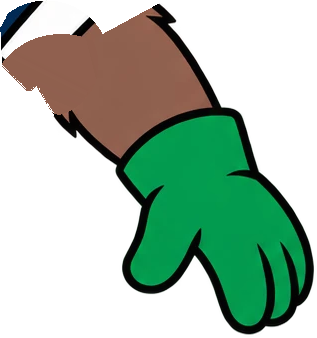
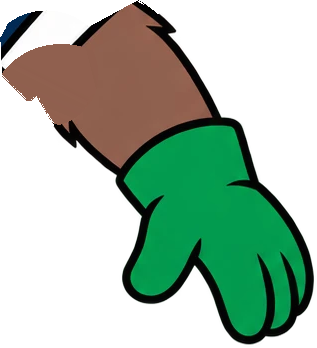
Puppet: close the seams, official hello pose for the greeting
Every edge a piece shares with one above it now has a strip of art under it,
so scaled-down soft edges never let the background through (the light lines
at the armholes and the collar). The tail owns its whole tip. The walk lifts
each leg as one piece instead of sliding the shin over the thigh, and the
greeting uses Rocky's official "hello" pose instead of turning the arm.

Claude-Session: https://claude.ai/code/session_01XnmiJCNWyPAE3i8SfpRvaf

Changed region(s): [[0.0, 0.0, 0.9937, 0.9763], [0.8233, 0.8284, 0.9937, 0.9763], [0.795, 0.7101, 0.8801, 0.8284]]

diff --git a/src/components/world/RockyPuppet.module.css b/src/components/world/RockyPuppet.module.css
@@ -2,7 +2,7 @@
    pivot (set inline from the design team's guide), so nested joints chain:
    the shoulder carries the elbow, the hip carries the knee. Pieces only turn
    and lift; whole-body motion (hops, waddle, breathing) comes from the
-   world's pose classes on the parent. Angles stay small except the wave, and
+   world's pose classes on the parent. Angles stay small, and
    every piece has art under its neighbour, so joints never open a gap. */
 .puppet {
   position: absolute;
@@ -100,8 +100,8 @@
   }
 }
 
-/* ---- Walk / run: seen from the front, each knee comes up in turn (the shin
-   lifts over the thigh) while the arms swing and the elbows follow. ---- */
+/* ---- Walk / run: seen from the front, each leg lifts in turn (the thigh
+   slides up under the vest) while the arms swing and the elbows follow. ---- */
 .walk .legL,
 .run .legL {
   animation: hipL 0.7s ease-in-out infinite;
@@ -109,14 +109,6 @@
 .walk .legR,
 .run .legR {
   animation: hipR 0.7s ease-in-out infinite;
-}
-.walk .shinL,
-.run .shinL {
-  animation: kneeL 0.7s ease-in-out infinite;
-}
-.walk .shinR,
-.run .shinR {
-  animation: kneeR 0.7s ease-in-out infinite;
 }
 .walk .armL,
 .run .armL {
@@ -144,8 +136,6 @@
 }
 .run .legL,
 .run .legR,
-.run .shinL,
-.run .shinR,
 .run .armL,
 .run .armR,
 .run .foreL,
@@ -160,7 +150,7 @@
     transform: translateY(0) rotate(0);
   }
   25% {
-    transform: translateY(-1.5%) rotate(2deg);
+    transform: translateY(-2.6%) rotate(1.5deg);
   }
 }
 @keyframes hipR {
@@ -170,27 +160,7 @@
     transform: translateY(0) rotate(0);
   }
   75% {
-    transform: translateY(-1.5%) rotate(-2deg);
-  }
-}
-@keyframes kneeL {
-  0%,
-  50%,
-  100% {
-    transform: translateY(0) rotate(0);
-  }
-  25% {
-    transform: translateY(-4.5%) rotate(-3deg);
-  }
-}
-@keyframes kneeR {
-  0%,
-  50%,
-  100% {
-    transform: translateY(0) rotate(0);
-  }
-  75% {
-    transform: translateY(-4.5%) rotate(3deg);
+    transform: translateY(-2.6%) rotate(-1.5deg);
   }
 }
 @keyframes swingL {
@@ -227,67 +197,6 @@
   }
   50% {
     transform: rotate(-2deg);
-  }
-}
-
-/* ---- Wave: the right arm comes up and the hand waves at the elbow ---- */
-.wave .armR {
-  animation: waveArm 2.4s ease-in-out both;
-}
-.wave .foreR {
-  animation: waveHand 2.4s ease-in-out both;
-}
-.wave .head {
-  animation: waveHead 2.4s ease-in-out both;
-}
-.wave .tail {
-  animation: tailWag 0.3s ease-in-out infinite alternate;
-}
-@keyframes waveArm {
-  0%,
-  100% {
-    transform: rotate(0);
-  }
-  16%,
-  84% {
-    transform: rotate(-48deg);
-  }
-}
-@keyframes waveHand {
-  0%,
-  100% {
-    transform: rotate(0);
-  }
-  16% {
-    transform: rotate(-58deg);
-  }
-  28% {
-    transform: rotate(-84deg);
-  }
-  40% {
-    transform: rotate(-58deg);
-  }
-  52% {
-    transform: rotate(-84deg);
-  }
-  64% {
-    transform: rotate(-58deg);
-  }
-  76% {
-    transform: rotate(-84deg);
-  }
-  84% {
-    transform: rotate(-58deg);
-  }
-}
-@keyframes waveHead {
-  0%,
-  100% {
-    transform: rotate(0);
-  }
-  20%,
-  80% {
-    transform: rotate(-1.6deg);
   }
 }
 
@@ -352,7 +261,7 @@
   }
 }
 
-/* ---- Hop: arms out for balance, knees tucked ---- */
+/* ---- Hop: arms out for balance, legs tucked ---- */
 .hop .armL {
   animation: armUpL 0.55s ease-in-out 2;
 }
@@ -365,8 +274,8 @@
 .hop .foreR {
   animation: elbowUpR 0.55s ease-in-out 2;
 }
-.hop .shinL,
-.hop .shinR {
+.hop .legL,
+.hop .legR {
   animation: tuck 0.55s ease-in-out 2;
 }
 .hop .tail {

diff --git a/src/components/world/RockyWorld.tsx b/src/components/world/RockyWorld.tsx
@@ -69,7 +69,7 @@ import { GuestRocky, type Guest } from "./GuestRocky";
 import { VipAura } from "./VipAura";
 import { RetryImg } from "../assetRecovery";
 
-type Pose = "idle" | "walk" | "run" | "pet" | "eat" | "hop" | "bath" | "wave";
+type Pose = "idle" | "walk" | "run" | "pet" | "eat" | "hop" | "bath";
 
 interface Particle {
   id: number;
@@ -434,16 +434,6 @@ export function RockyWorld({
   // A short official pose (a cheer, a bite, a celebration) shown over his mood pose.
   const [emote, setEmote] = useState<RockyEmote | null>(null);
   const [usePuppet] = useState(puppetEnabled);
-  // The puppet waves hello when you arrive (unless he's already busy).
-  useEffect(() => {
-    if (!usePuppet || prefersReducedMotion()) return;
-    const start = window.setTimeout(() => setPose((p) => (p === "idle" ? "wave" : p)), 900);
-    const end = window.setTimeout(() => setPose((p) => (p === "wave" ? "idle" : p)), 900 + 2400);
-    return () => {
-      window.clearTimeout(start);
-      window.clearTimeout(end);
-    };
-  }, [usePuppet]);
   const emoteTimer = useRef<number | undefined>(undefined);
   const hatRef = useRef<SVGSVGElement>(null);
   const glassesRef = useRef<SVGSVGElement>(null);
@@ -458,6 +448,12 @@ export function RockyWorld({
     emoteTimer.current = window.setTimeout(() => setEmote(null), 1800);
   }, []);
   useEffect(() => () => window.clearTimeout(emoteTimer.current), []);
+  // Rocky waves hello when you arrive, in his official "hello" pose.
+  useEffect(() => {
+    if (prefersReducedMotion()) return;
+    const t = window.setTimeout(() => playClip("Wave"), 900);
+    return () => window.clearTimeout(t);
+  }, [playClip]);
 
   // Check-in reactions show their official pose, with a little tune.
   useEffect(() => {

diff --git a/src/components/world/RockyPuppet.tsx b/src/components/world/RockyPuppet.tsx
@@ -21,7 +21,7 @@ import type { HeadAnchor, RockyRigPoints } from '../rockyWorldRig'
  * each piece continues under its neighbour, so a turn shows art, not a gap.
  * Joints chain like a body: the shoulder carries the elbow, the hip the knee.
  */
-export type PuppetAction = 'idle' | 'walk' | 'run' | 'pet' | 'eat' | 'hop' | 'bath' | 'wave'
+export type PuppetAction = 'idle' | 'walk' | 'run' | 'pet' | 'eat' | 'hop' | 'bath'
 
 const SRC: Record<string, string> = {
   tail,

diff --git a/tools/build-rocky-puppet.py b/tools/build-rocky-puppet.py
@@ -149,6 +149,25 @@ def grow_owner(owner: np.ndarray, need: np.ndarray) -> np.ndarray:
     return own
 
 
+def dilate(mask: np.ndarray, r: int) -> np.ndarray:
+    """Grow a mask by r pixels (8-neighbour steps)."""
+    out = mask.copy()
+    for _ in range(r):
+        grown = out.copy()
+        for dy in (-1, 0, 1):
+            for dx in (-1, 0, 1):
+                if dy or dx:
+                    grown |= np.roll(np.roll(out, dy, 0), dx, 1)
+        out = grown
+    return out
+
+
+# Every edge a piece shares with a piece above it gets a strip of art under
+# the neighbour (canvas px), so when the art is scaled down and the pieces
+# move a little, the soft edge shows art behind it, never the background.
+SEAM = 16
+
+
 def main() -> None:
     pose = np.array(Image.open(POSE).convert("RGBA")).astype(int)
     h, w = pose.shape[:2]
@@ -177,6 +196,23 @@ def main() -> None:
         owner_matches |= (owner == rank[n]) & match[n]
     fix = visible & (top_matches >= 0) & ~owner_matches
     owner[fix] = top_matches[fix]
+    # The tail's own fur and outline belong to the tail even where the leg's layer
+    # repeats them (its pants and cuffs, which the tail's layer only echoes, don't).
+    r, g, b = (pose[..., i] for i in range(3))
+    pants = (b > r + 25) | ((r > 200) & (g > 200) & (b > 200))
+    owner[match["tail"] & visible & ~pants] = rank["tail"]
+    # Below the hip the tail hangs free of the leg (white between them): every
+    # pixel joined to the tail there is the tail's, even where its layer stops short.
+    band = np.zeros((h, w), bool)
+    band[985:1135, :430] = True
+    band &= (pose[..., 3] > 100) & ~pants
+    tail = band & (owner == rank["tail"])
+    while True:
+        grown = dilate(tail, 1) & band
+        if grown.sum() == tail.sum():
+            break
+        tail = grown
+    owner[tail] = rank["tail"]
     owner = grow_owner(owner, visible)
 
     dots = guide_dots(LAYERS / "30_Puntos_de_Giro_GUIA.png")
@@ -219,6 +255,7 @@ def main() -> None:
             if only:  # own art only
                 spot &= masks[n] & (layers[n][..., 3] >= 250)
             hidden |= spot
+        hidden |= dilate(owner == rank[n], SEAM) & (owner > rank[n])
         hidden &= pose[..., 3] >= 250
         piece[hidden] = pose[hidden]
         own_art = hidden & masks[n] & (layers[n][..., 3] >= 250)
